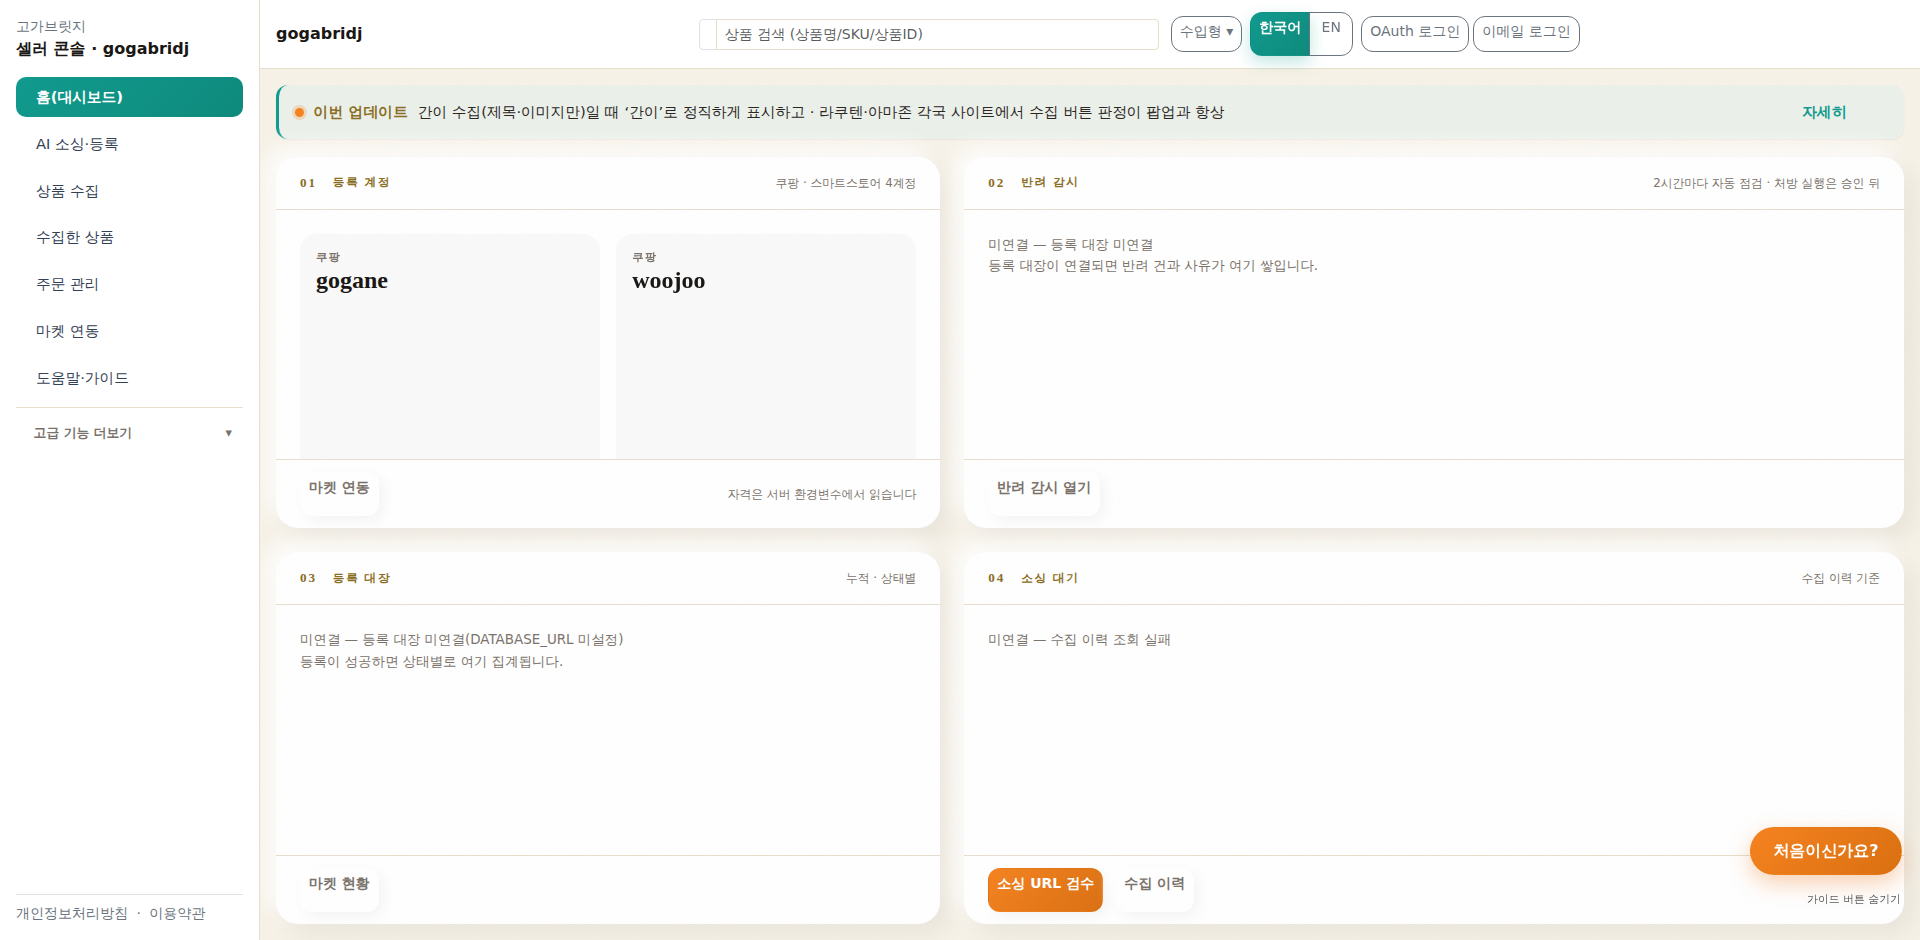
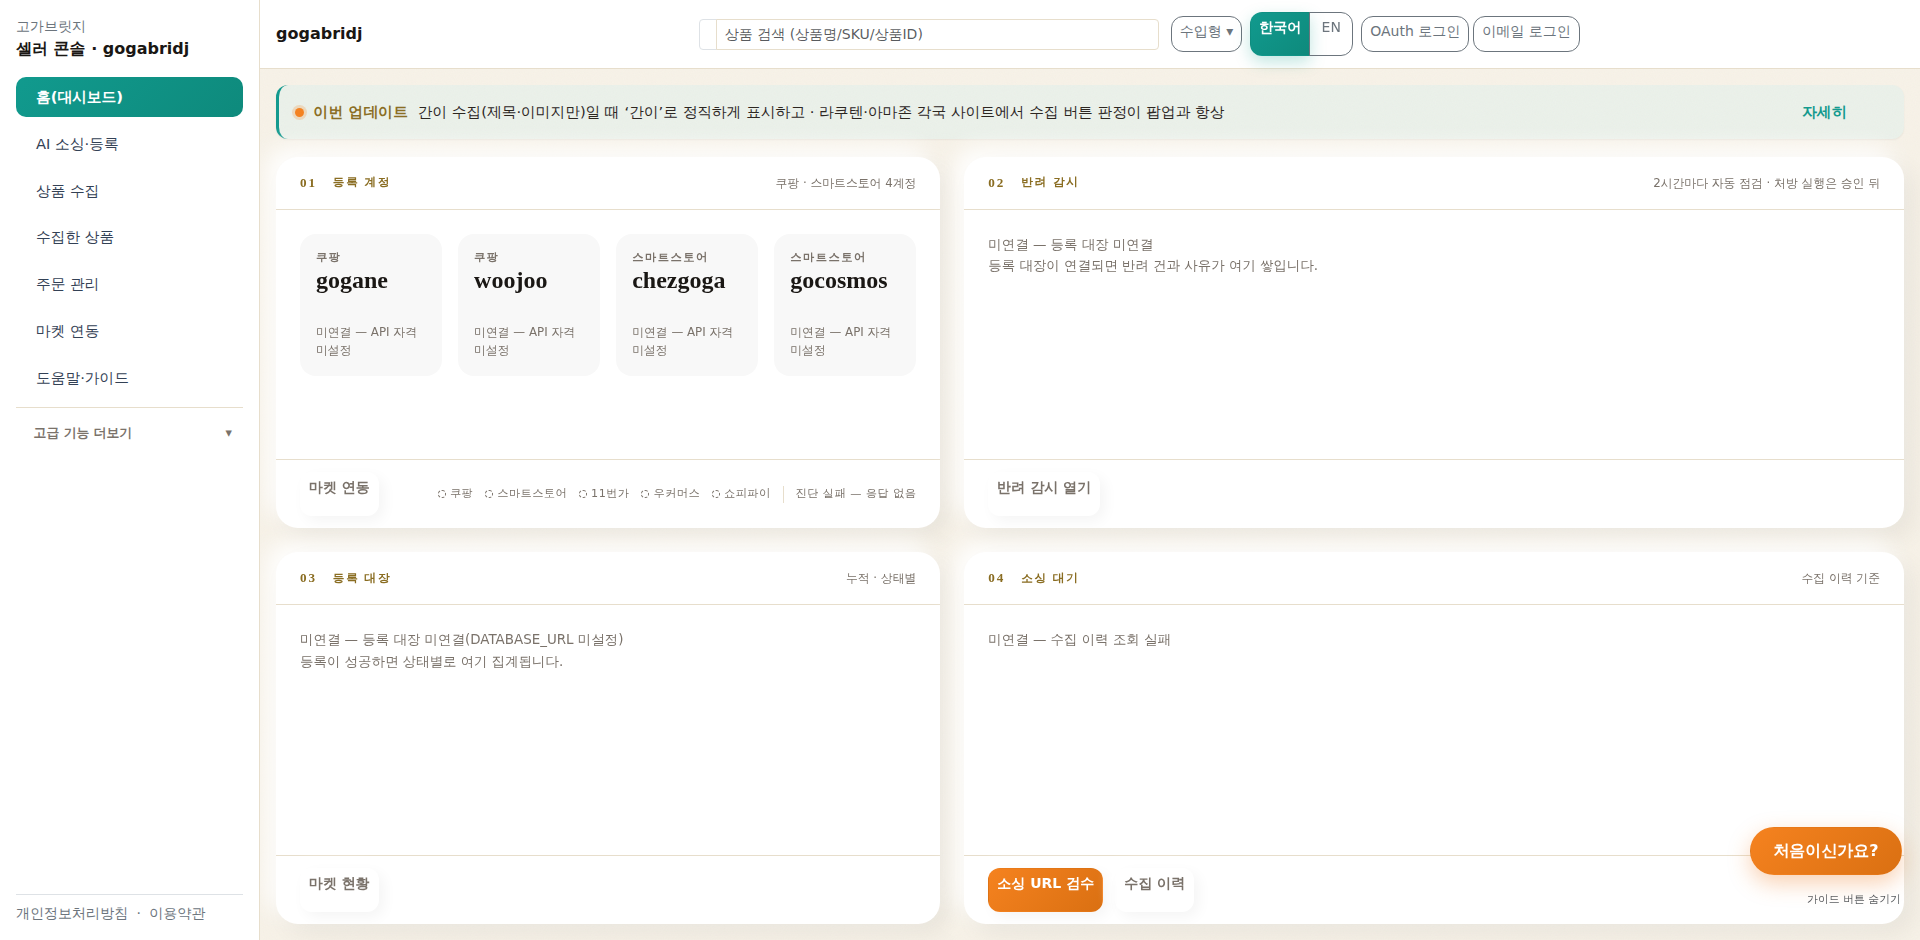
S3 — 연동 마켓 요약 신호줄 + 비차단 진단
축(4계정)은 쿠팡·스마트스토어뿐이라 **11번가 오류가 첫 화면에 안 떴다.** 축은 그대로 두고
지원 마켓 전부를 점 하나씩으로 요약하는 줄을 01 카드 푸터에 붙인다.

- `ops_snapshot.linked_markets()` — 판정은 `market_credentials`(S1의 그 단일 판정기) 하나만 쓴다.
  자격 env를 직접 읽어 스스로 판정하면 화면마다 답이 갈린다. 계약이 재구현을 금지한다.
- 진단은 **비차단**: 화면은 자격 상태로 먼저 뜨고, 실제 마켓 응답이 오면 점만 갱신한다.
  엔드포인트는 마켓 연동 화면이 쓰는 그것을 그대로 부른다(진단 로직 재구현 0).
- 타임아웃 3초. **타임아웃이 스스로 표기를 바꾼다** — abort→catch에만 기대면 취소를 무시하는
  요청에서 화면이 진단 전 낙관 표기로 굳는다(캡처로 실측 확인). 늦게 온 응답이 그 위를 덮는다.
- 실패는 점 모양(점선)에 더해 **글자로도** 말한다("진단 실패 — 응답 없음"). 점만으론 '미설정'과
  구분이 안 된다.

곁가지 두 건(캡처를 보고 잡은 것, 둘 다 6-a 자체 결함):
- 01 카드가 "4계정"이라 적어놓고 **두 개만 보였다**(나머지 둘은 카드 스크롤 아래). 4열 한 줄로.
- 카드 본문 스크롤에서 잘린 줄이 '깨진 화면'으로 읽혔다 → 아래쪽 페이드(넘칠 게 없으면 안 보인다).

캡처 4벌(원본 해상도 단독 — 축소 병치 폐기): 0데이터 / 실데이터 / 진단실패 / 390px.
계약 4 추가(축 밖 마켓 포함·단일 판정기·비차단+엔드포인트 재사용·실패 정직 표기).
전체 스위트 12727 passed / 53 skipped.

Claude-Session: https://claude.ai/code/session_01PxGVkp5f6YphwkqMwzi5ZE

diff --git a/src/seller_console/templates/dashboard.html b/src/seller_console/templates/dashboard.html
@@ -37,7 +37,9 @@
       <span class="op-tile-sub ms-auto">쿠팡 · 스마트스토어 4계정</span>
     </div>
     <div class="op-card-body">
-      <div class="op-tiles">
+      {# 4계정이 한 줄에 다 보여야 한다 — 카드 머리말이 "4계정"이라고 말하는데
+         두 개만 보이고 둘은 카드 스크롤 아래에 있으면 화면이 스스로를 반박한다. #}
+      <div class="op-tiles op-tiles-4">
         {% for a in ops.accounts %}
         <div class="op-tile {% if a.connected %}op-tile-on{% endif %}">
           <div>
@@ -54,7 +56,20 @@
     </div>
     <div class="op-card-foot">
       <a class="btn btn-ghost btn-sm" href="/seller/markets/connect">마켓 연동</a>
-      <span class="op-tile-sub ms-auto">자격은 서버 환경변수에서 읽습니다</span>
+      {# S3 연동 마켓 요약 신호줄 — 위 4계정 축은 쿠팡·스마트스토어뿐이라 11번가 같은 축 밖
+         마켓의 오류가 첫 화면에 안 뜬다. 점 하나씩으로 요약해 붙인다.
+         여기 찍히는 초기값은 **자격 설정 여부까지**이고, 실제 응답은 화면이 그린 뒤
+         비동기로 얹는다(3초 안에 못 받으면 '진단 실패'라고 말한다 — 낙관 표기 금지). #}
+      <div class="op-sig ms-auto" id="opMarketSignal"
+           data-diag-url="{{ url_for('seller_console.markets_integration_diagnostics') }}">
+        {% for m in ops.markets.rows %}
+        <span class="op-sig-item{% if not m.configured %} is-off{% endif %}" data-market="{{ m.market }}"
+              title="{{ m.label }} · {% if m.configured %}자격 설정됨{% if m.source %}({{ m.source }}){% endif %}{% else %}미설정{% endif %}">
+          <span class="op-sig-dot"></span>{{ m.label }}
+        </span>
+        {% endfor %}
+        {% if not ops.markets.rows %}<span class="op-tile-sub">{{ ops.markets.note or '연동 마켓 없음' }}</span>{% endif %}
+      </div>
     </div>
   </section>
 
@@ -142,4 +157,55 @@
     </div>
   </section>
 </div>
+
+{# S3 — 진단은 **비차단**이다. 화면은 자격 상태로 먼저 뜨고, 실제 마켓 응답이 오면 점만 갱신한다.
+   3초 안에 못 받으면 '진단 실패'라고 말한다 — 느려진 대시보드로 오너를 기다리게 하지 않는다.
+   엔드포인트는 마켓 연동 화면이 쓰는 그것을 그대로 부른다(진단 로직 재구현 0). #}
+<script>
+(function () {
+  var box = document.getElementById('opMarketSignal');
+  if (!box || !box.dataset.diagUrl) return;
+  var ctl = ('AbortController' in window) ? new AbortController() : null;
+  function mark(el, cls, title) {
+    el.classList.remove('is-ok', 'is-err', 'is-unknown');
+    el.classList.add(cls);
+    if (title) el.title = title;
+  }
+  function giveUp() {
+    // 실패를 성공처럼 두지 않는다. '모른다'를 그대로 말한다.
+    Array.prototype.forEach.call(box.querySelectorAll('.op-sig-item'), function (el) {
+      mark(el, 'is-unknown', (el.textContent || '').trim() + ' · 진단 실패(응답 없음)');
+    });
+    // 점 모양만으로는 '미설정'과 구분이 안 된다 — 한 번은 글자로 말한다.
+    if (!box.querySelector('.op-sig-note')) {
+      var note = document.createElement('span');
+      note.className = 'op-sig-note';
+      note.textContent = '진단 실패 — 응답 없음';
+      box.appendChild(note);
+    }
+  }
+  // 타임아웃은 **스스로 표기를 바꾼다.** abort→catch에만 기대면, 취소를 무시하는 요청에서
+  // 화면이 진단 전 낙관 표기로 굳는다(실측으로 확인). 늦게 온 응답은 그 위를 덮어쓴다.
+  var timer = setTimeout(function () { if (ctl) ctl.abort(); giveUp(); }, 3000);
+  fetch(box.dataset.diagUrl, {
+    credentials: 'same-origin',
+    headers: { 'Accept': 'application/json' },
+    signal: ctl ? ctl.signal : undefined
+  }).then(function (r) { return r.ok ? r.json() : null; }).then(function (data) {
+    clearTimeout(timer);
+    if (!data || !data.ok || !data.results) throw new Error('no-result');
+    data.results.forEach(function (res) {
+      var el = box.querySelector('[data-market="' + (res.market || '') + '"]');
+      if (!el) return;
+      var label = (el.textContent || '').trim();
+      if (res.status === 'connected' || res.ok === true) {
+        mark(el, 'is-ok', label + ' · 연동 확인됨');
+      } else {
+        var act = res.action || (res.ui && res.ui.action) || res.error_code || '';
+        mark(el, 'is-err', label + ' · 연동 실패' + (act ? ' — ' + act : ''));
+      }
+    });
+  }).catch(function () { clearTimeout(timer); giveUp(); });
+})();
+</script>
 {% endblock %}

diff --git a/src/static/app.css b/src/static/app.css
@@ -796,6 +796,15 @@ main:has(> .op-shell) > .op-shell { flex: 1 1 auto; height: auto; min-height: 0;
   display: flex; align-items: baseline; gap: var(--space-3);
 }
 .op-card-body { flex: 1 1 auto; min-height: 0; overflow-y: auto; padding: var(--space-5); }
+/* 스크롤로 잘린 줄이 '깨진 화면'으로 읽히지 않게, 본문 아래쪽에 카드 배경으로 스미는 페이드.
+   넘칠 게 없으면 여백 위에 겹쳐 보이지 않는다(조건 분기 없이 안전). */
+.op-card { position: relative; }
+.op-card-body::after {
+  content: ""; position: sticky; display: block; bottom: calc(var(--space-5) * -1);
+  margin: 0 calc(var(--space-5) * -1) calc(var(--space-5) * -1);
+  height: var(--space-5); pointer-events: none;
+  background: linear-gradient(to bottom, transparent, var(--surface));
+}
 .op-card-foot {
   flex: 0 0 auto; padding: var(--space-3) var(--space-5);
   border-top: 1px solid var(--border);
@@ -809,6 +818,7 @@ main:has(> .op-shell) > .op-shell { flex: 1 1 auto; height: auto; min-height: 0;
 
 /* Bauhaus — 계정 타일을 **기하 모듈**로. 정사각(1:1) 그리드, 원색은 신호 1점만. */
 .op-tiles { display: grid; grid-template-columns: repeat(2, minmax(0, 1fr)); gap: var(--space-4); }
+.op-tiles-4 { grid-template-columns: repeat(4, minmax(0, 1fr)); }  /* 4계정 한 줄 */
 .op-tile {
   aspect-ratio: 1 / 1;                              /* 정사각 모듈(Bauhaus) */
   display: flex; flex-direction: column; justify-content: space-between;
@@ -855,9 +865,33 @@ main:has(> .op-shell) > .op-shell { flex: 1 1 auto; height: auto; min-height: 0;
   box-shadow: var(--nm-soft-sm); min-height: 44px;
 }
 
+/* S3 — 연동 마켓 요약 신호줄. 축(4계정) 밖 마켓의 오류도 첫 화면에 점 하나로는 뜬다.
+   기하 타일이 아니라 텍스트 신호라 Neumo 깊이를 쓰지 않는다(G2 겹침 금지). */
+.op-sig { display: flex; align-items: center; gap: var(--space-3); flex-wrap: wrap; }
+.op-sig-item {
+  display: inline-flex; align-items: center; gap: var(--space-1);
+  font-size: .7rem; letter-spacing: .04em; color: var(--text-muted);
+}
+.op-sig-dot {
+  width: .5rem; height: .5rem; border-radius: 50%;
+  background: var(--teal); /* 자격 설정됨 — 진단 전 기본값 */
+}
+.op-sig-item.is-off .op-sig-dot { background: var(--border); }        /* 미설정 */
+.op-sig-item.is-ok .op-sig-dot { background: var(--success); }        /* 연동 확인됨 */
+.op-sig-item.is-err .op-sig-dot { background: var(--danger); }        /* 마켓이 거부 */
+.op-sig-item.is-err { color: var(--danger); font-weight: var(--w-semi); }
+.op-sig-item.is-unknown .op-sig-dot {                                  /* 진단 실패 — 모른다 */
+  background: transparent; border: 1px dashed var(--text-muted);
+}
+.op-sig-note {                    /* 점 모양만으론 미설정과 구분이 안 된다 — 글자로도 말한다 */
+  font-size: .7rem; letter-spacing: .04em; color: var(--text-muted);
+  border-left: 1px solid var(--border); padding-left: var(--space-3);
+}
+
 /* G1 — 390px 1열 폴백(뷰포트 고정 해제 · 스크롤이 자연스럽다). */
 @media (max-width: 1199.98px) {
   .op-shell { grid-template-columns: minmax(0, 1fr); height: auto; grid-auto-rows: auto; }
+  .op-tiles-4 { grid-template-columns: repeat(2, minmax(0, 1fr)); }   /* 390px는 2×2 */
   .op-shell > * { grid-column: 1 / -1; }
   .op-card { flex: 0 0 auto; }
   .op-card-body { overflow: visible; }

diff --git a/scripts/_devshot_v40s6a.py b/scripts/_devshot_v40s6a.py
@@ -5,7 +5,6 @@
 
 0데이터 = 전 블록 미연결(정직 표기가 실제로 나오는지). 실데이터 = 계정·대장·큐가 찬 상태.
 """
-import io
 import os
 import subprocess
 import sys
@@ -50,6 +49,8 @@ AUDIT = """() => {
     scrollers, smallTargets: small,
     offline: document.querySelectorAll('.op-off').length,
     tiles: document.querySelectorAll('.op-tile').length,
+    signal: [...document.querySelectorAll('.op-sig-item')].map(e =>
+      (e.dataset.market || '') + ':' + (e.className.match(/is-\w+/) || ['자격설정됨'])[0]),
   };
 }"""
 
@@ -62,6 +63,10 @@ EMPTY = {
     "registrations": {"connected": False, "note": "등록 대장 미연결(DATABASE_URL 미설정)", "counts": {}},
     "rejections": {"connected": False, "note": "등록 대장 미연결", "rows": []},
     "sourcing": {"connected": False, "note": "수집 이력 조회 실패", "today": 0, "total": 0},
+    "markets": {"connected": True, "note": "", "rows": [
+        {"market": m, "label": ko, "configured": False, "source": ""}
+        for m, ko in (("coupang", "쿠팡"), ("smartstore", "스마트스토어"), ("elevenst", "11번가"),
+                      ("woocommerce", "우커머스"), ("shopify", "쇼피파이"))]},
 }
 
 LIVE = {
@@ -85,6 +90,13 @@ LIVE = {
         {"product_id": "16359486084", "title": "하베스트라벨 캔버스 토트", "account": "woojoo"},
     ]},
     "sourcing": {"connected": True, "note": "", "today": 12, "total": 396},
+    "markets": {"connected": True, "note": "", "rows": [
+        {"market": "coupang", "label": "쿠팡", "configured": True, "source": "server"},
+        {"market": "smartstore", "label": "스마트스토어", "configured": True, "source": "server"},
+        {"market": "elevenst", "label": "11번가", "configured": True, "source": "seller"},
+        {"market": "woocommerce", "label": "우커머스", "configured": True, "source": "seller"},
+        {"market": "shopify", "label": "쇼피파이", "configured": False, "source": ""},
+    ]},
 }
 
 
@@ -105,12 +117,28 @@ def _render(html_path, app_css, ops):
     open(html_path, "w", encoding="utf-8").write(html.replace("</head>", inline + "</head>", 1))
 
 
-def _shoot(br, tag, css, size, ops):
+# S3 — 진단 응답 스텁. file:// 렌더라 실제 fetch가 안 나가므로, **화면이 응답을 받았을 때**와
+#   **못 받았을 때**를 각각 실제 코드 경로로 재현한다(그림 합성 0).
+DIAG_OK = """() => {
+  window.fetch = () => Promise.resolve({ ok: true, json: () => Promise.resolve({ ok: true, results: [
+    { market: 'coupang', status: 'connected' },
+    { market: 'smartstore', status: 'connected' },
+    { market: 'elevenst', status: 'api_error', error_code: 'openapi_not_registered',
+      action: '11번가 셀러오피스에서 OpenAPI 이용 신청/키 발급 상태를 먼저 확인하세요' },
+    { market: 'woocommerce', status: 'connected' },
+  ]})});
+}"""
+DIAG_HANG = """() => { window.fetch = () => new Promise(() => {}); }"""   # 응답 없음 → 3초 타임아웃
+
+
+def _shoot(br, tag, css, size, ops, stub=None):
     out_html = f"/tmp/_s6a_{tag}.html"
     _render(out_html, css, ops)
     pg = br.new_page(viewport={"width": size[0], "height": size[1]})
+    if stub:
+        pg.add_init_script("(" + stub + ")()")
     pg.goto(f"file://{out_html}")
-    pg.wait_for_timeout(700)
+    pg.wait_for_timeout(3600 if stub is DIAG_HANG else 900)
     a = pg.evaluate(AUDIT)
     shot = pg.screenshot()
     pg.close()
@@ -127,7 +155,6 @@ def _report(tag, a):
 
 
 def main():
-    from PIL import Image, ImageDraw
     from playwright.sync_api import sync_playwright
 
     files = (TPL, CSS, VIEWS, SNAP)
@@ -136,36 +163,23 @@ def main():
         r = subprocess.run(["git", "show", f"origin/main:{f}"], capture_output=True, text=True)
         base[f] = r.stdout if r.returncode == 0 else None      # 신규 파일은 BEFORE에 없다
     cur = {f: open(f, encoding="utf-8").read() for f in files}
-    variants = [("0데이터", EMPTY, DESKTOP), ("실데이터", LIVE, DESKTOP), ("390", LIVE, MOBILE)]
+    variants = [("0데이터", EMPTY, DESKTOP, None), ("실데이터", LIVE, DESKTOP, DIAG_OK),
+                ("진단실패", LIVE, DESKTOP, DIAG_HANG), ("390", LIVE, MOBILE, DIAG_OK)]
     shots, audits = {}, {}
     with sync_playwright() as pw:
         br = pw.chromium.launch(executable_path=CHROME)
-        for label, ops, size in variants:
-            audits[label], shots[label] = _shoot(br, label, cur[CSS], size, ops)
+        for label, ops, size, stub in variants:
+            audits[label], shots[label] = _shoot(br, label, cur[CSS], size, ops, stub)
         br.close()
 
     print("=== Stage 6-a 실측 ===")
-    for label, _, _ in variants:
+    for label, _, _, _ in variants:
         _report(label, audits[label])
+        print(f"      신호줄: {' '.join(audits[label]['signal'])}")
 
     os.makedirs(OUT_DIR, exist_ok=True)
     for label, png in shots.items():
         open(f"{OUT_DIR}/dashboard-{label}.png", "wb").write(png)
-    # 데스크톱 2벌은 나란히, 모바일은 단독.
-    ims = {l: Image.open(io.BytesIO(shots[l])) for l in ("0데이터", "실데이터")}
-    ims = {l: i.resize((i.width // 2, i.height // 2)) for l, i in ims.items()}
-    pad = 30
-    cv = Image.new("RGB", (sum(i.width for i in ims.values()) + pad * 3,
-                           max(i.height for i in ims.values()) + pad + 8), (238, 232, 220))
-    d = ImageDraw.Draw(cv)
-    x = pad
-    for label in ("0데이터", "실데이터"):
-        a = audits[label]
-        d.text((x, 8), f"{label}  {a['vw']}x{a['vh']}  scrollHeight={a['pageHeight']}  "
-                       f"hollow={a['hollow']}  cards={a['cards']}", fill=(26, 23, 20))
-        cv.paste(ims[label], (x, pad))
-        x += ims[label].width + pad
-    cv.save(f"{OUT_DIR}/dashboard-6a-desktop.png")
     print("saved", OUT_DIR)
 
 

diff --git a/tests/test_v40s6a_dashboard.py b/tests/test_v40s6a_dashboard.py
@@ -153,3 +153,50 @@ def test_no_dead_links_on_dashboard():
     rules = {str(r) for r in app.url_map.iter_rules()}
     for href in re.findall(r'href="(/seller/[^"{]+)"', _tpl()):
         assert href in rules, href
+
+
+# ── S3: 연동 마켓 요약 신호줄 (비차단 진단) ──────────────────────────────────────
+
+def test_s3_signal_row_covers_markets_outside_the_four_account_axis():
+    """★ 축(4계정)은 쿠팡·스마트스토어뿐이다 — 11번가 오류가 첫 화면에 안 뜨던 구멍.
+
+    축은 그대로 두고 지원 마켓 전부를 점 하나씩으로 요약하는 줄을 붙인다.
+    """
+    from src.pipeline import ops_snapshot as ops
+    axis = {m for m, _ko, _accts in ops.ACCOUNT_AXES}
+    assert axis == {"coupang", "smartstore"}                  # 축은 4계정 유지
+    rows = ops.linked_markets("s3")["rows"]
+    markets = {r["market"] for r in rows}
+    assert "elevenst" in markets and not markets <= axis       # 축 밖 마켓이 실제로 들어온다
+    for r in rows:
+        assert set(r) >= {"market", "label", "configured", "source"}
+    html = _tpl()
+    assert "opMarketSignal" in html and "op-sig-item" in html
+
+
+def test_s3_signal_row_uses_the_single_connection_judge():
+    """판정은 `market_credentials`가 정본 — 대시보드가 자기 판정기를 새로 만들지 않는다."""
+    src = SNAP.read_text(encoding="utf-8")
+    assert "market_credentials" in src and "credential_source" in src
+    # 자격 env를 직접 읽어 "연결됐다"를 스스로 판정하면 화면마다 답이 갈린다(S1에서 잡은 유형).
+    for reinvented in ("ELEVENST_API_KEY", "WC_KEY", "SHOPIFY_CLIENT_ID", "os.environ"):
+        assert reinvented not in src, f"판정 재구현: {reinvented}"
+
+
+def test_s3_diagnostics_are_non_blocking_and_reuse_the_endpoint():
+    """★ 진단은 렌더를 막지 않는다 — 3초 타임아웃 + 엔드포인트 재사용(재구현 0)."""
+    html = _tpl()
+    assert "markets_integration_diagnostics" in html           # 기존 진단 라우트를 그대로 부른다
+    assert "AbortController" in html and "3000" in html        # 3초 상한
+    # 서버 렌더 경로에는 진단 호출이 없다(있으면 대시보드가 마켓 응답만큼 느려진다).
+    assert "run_market_diagnostic" not in SNAP.read_text(encoding="utf-8")
+
+
+def test_s3_diagnostic_failure_says_it_failed_not_ok():
+    """실패를 성공처럼 두지 않는다 — 못 받으면 '진단 실패'라고 말한다."""
+    html = _tpl()
+    assert "진단 실패" in html
+    css = _s6_css()
+    assert "--danger" in _block(css, ".op-sig-item.is-err .op-sig-dot")
+    assert "dashed" in _block(css, ".op-sig-item.is-unknown .op-sig-dot")
+    assert css.count("--orange") == 1                          # 원색은 여전히 신호 1점만

diff --git a/src/pipeline/ops_snapshot.py b/src/pipeline/ops_snapshot.py
@@ -106,11 +106,39 @@ def sourcing_queue(seller_ids=None) -> dict:
         return {"connected": False, "note": "수집 이력 조회 실패", "today": 0, "total": 0}
 
 
-def build(seller_ids=None, *, reject_limit: int = 5) -> dict:
+def linked_markets(seller_id: str = "") -> dict:
+    """연동 마켓 **요약 신호줄** (S3).
+
+    4계정 축은 쿠팡·스마트스토어뿐이라 **11번가 같은 축 밖 마켓의 오류가 첫 화면에 안 뜬다.**
+    그래서 축은 그대로 두고, 지원 마켓 전부를 점 하나씩으로 요약하는 줄을 하나 붙인다.
+
+    여기서 찍는 건 **자격 설정 여부까지**다 — API를 부르면 대시보드가 그만큼 느려진다.
+    실제 응답(11번가 -997 등)은 화면이 그린 뒤 비동기로 얹는다(뷰의 진단 엔드포인트 재사용).
+    판정은 `market_credentials.is_connected` 하나만 쓴다(S1 — 판정기 2개 금지).
+    """
+    try:
+        from src.seller_console import market_credentials as mc
+        rows = []
+        for s in mc.all_status(seller_id or ""):
+            market = s.get("market") or ""
+            rows.append({
+                "market": market,
+                "label": s.get("label") or market,
+                "configured": bool(s.get("connected")),
+                "source": mc.credential_source(seller_id or "", market),
+            })
+        return {"connected": True, "note": "", "rows": rows}
+    except Exception as exc:
+        logger.warning('연동 마켓 요약 조회 실패: %s', exc)
+        return {"connected": False, "note": "연동 상태 조회 실패", "rows": []}
+
+
+def build(seller_ids=None, *, reject_limit: int = 5, seller_id: str = "") -> dict:
     """대시보드 한 판. 각 블록은 독립적으로 실패할 수 있고, 실패는 '미연결'로 정직 표기된다."""
     return {
         "accounts": account_tiles(),
         "registrations": registration_counts(),
         "rejections": recent_rejections(limit=reject_limit),
         "sourcing": sourcing_queue(seller_ids),
+        "markets": linked_markets(seller_id),
     }

diff --git a/src/seller_console/views.py b/src/seller_console/views.py
@@ -1076,7 +1076,7 @@ def _render_dashboard_home():
     # Stage 6-a — 운영 스냅샷. 새 집계를 만들지 않고 기존 산출(계정 자격·등록 대장·수집 요약)만 모은다.
     #   블록별로 독립 실패하고, 실패는 화면에서 '미연결'로 정직 표기된다(0을 찍지 않는다).
     from src.pipeline import ops_snapshot
-    context["ops"] = ops_snapshot.build(_seller_identities())
+    context["ops"] = ops_snapshot.build(_seller_identities(), seller_id=_seller_id())
     return render_template("dashboard.html", widgets=widgets, page="dashboard", **context)
 
 
